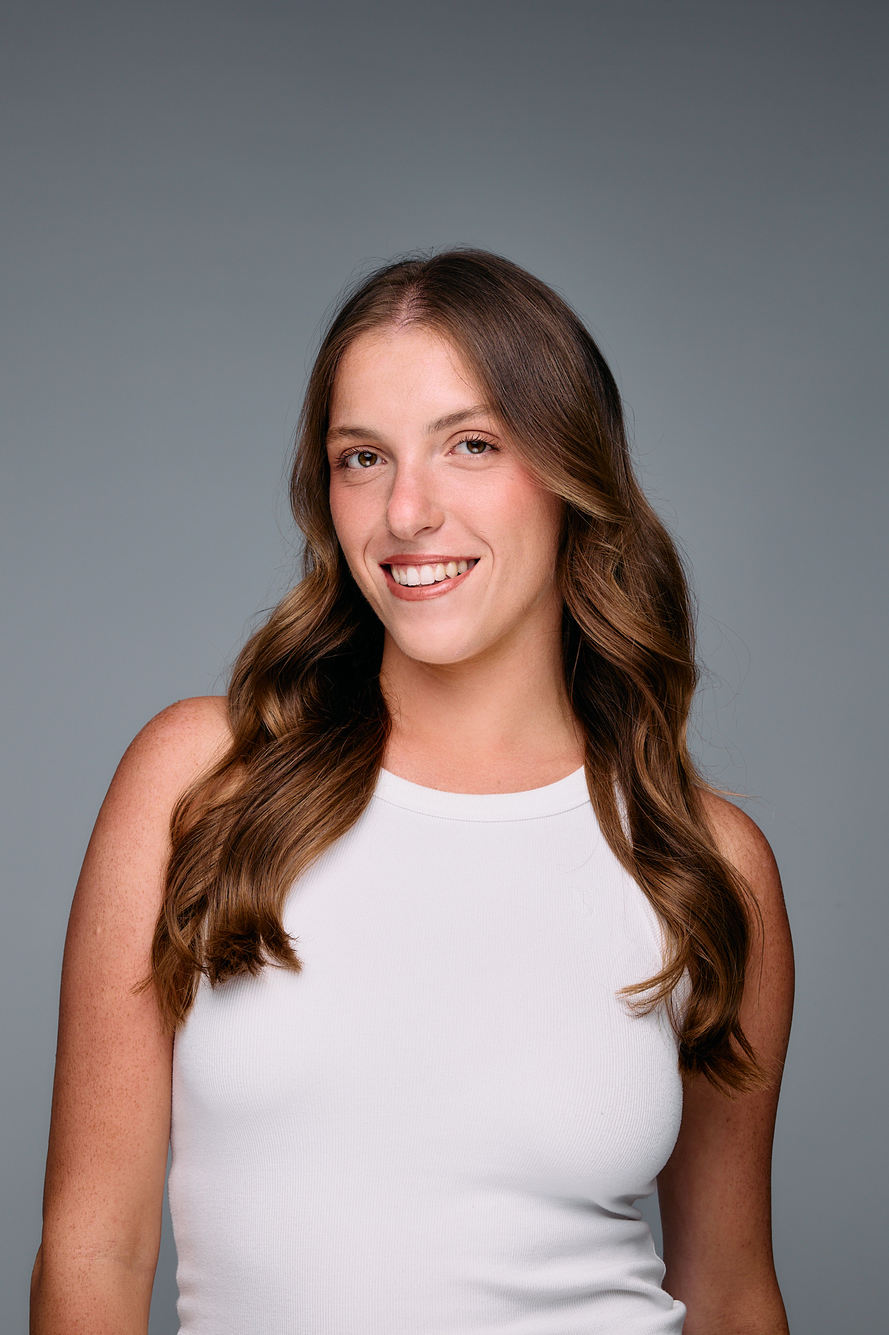
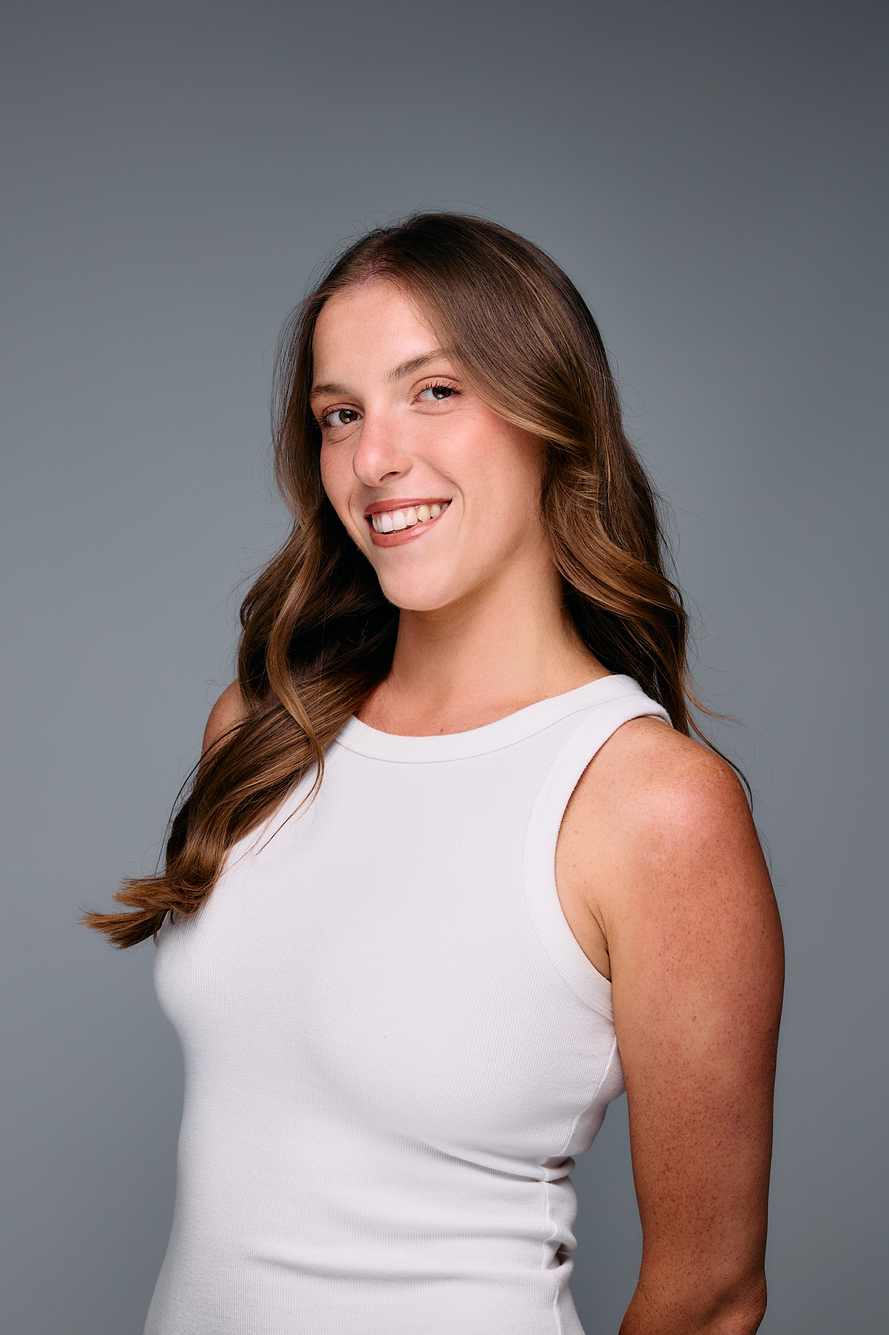
Update Topaz Falah profile image

diff --git a/data/talent/index.js b/data/talent/index.js
@@ -92,7 +92,7 @@ export const talentList = [
     location: 'מושב יגל',
     birthDate: '1997-02-23',
 
-    profileImage: '/images/talent/topaz-falah/profile.jpg',
+    profileImage: '/images/talent/topaz-falah/profile-v2.jpg',
     gallery:      [],
 
     bioHe: 'יוצרת תוכן מובילה בתחום האמהות והלייף סטייל, המביאה למסך את חיי המשפחה האמיתיים בגובה העיניים. בעמודיה היא משתפת ברגעים יום-יומיים ואותנטיים לצד בעלה ניסים והילדים, ומציעה הצצה לשגרת הורות מעוררת השראה, טיפים לחיים ומתכונים ביתיים ונגישים. בזכות אנרגיה חמה וחיבור אמיתי, טופז סחפה אחריה קהילה נאמנה של אמהות ונשים שמחפשות השראה יום-יומית.',
